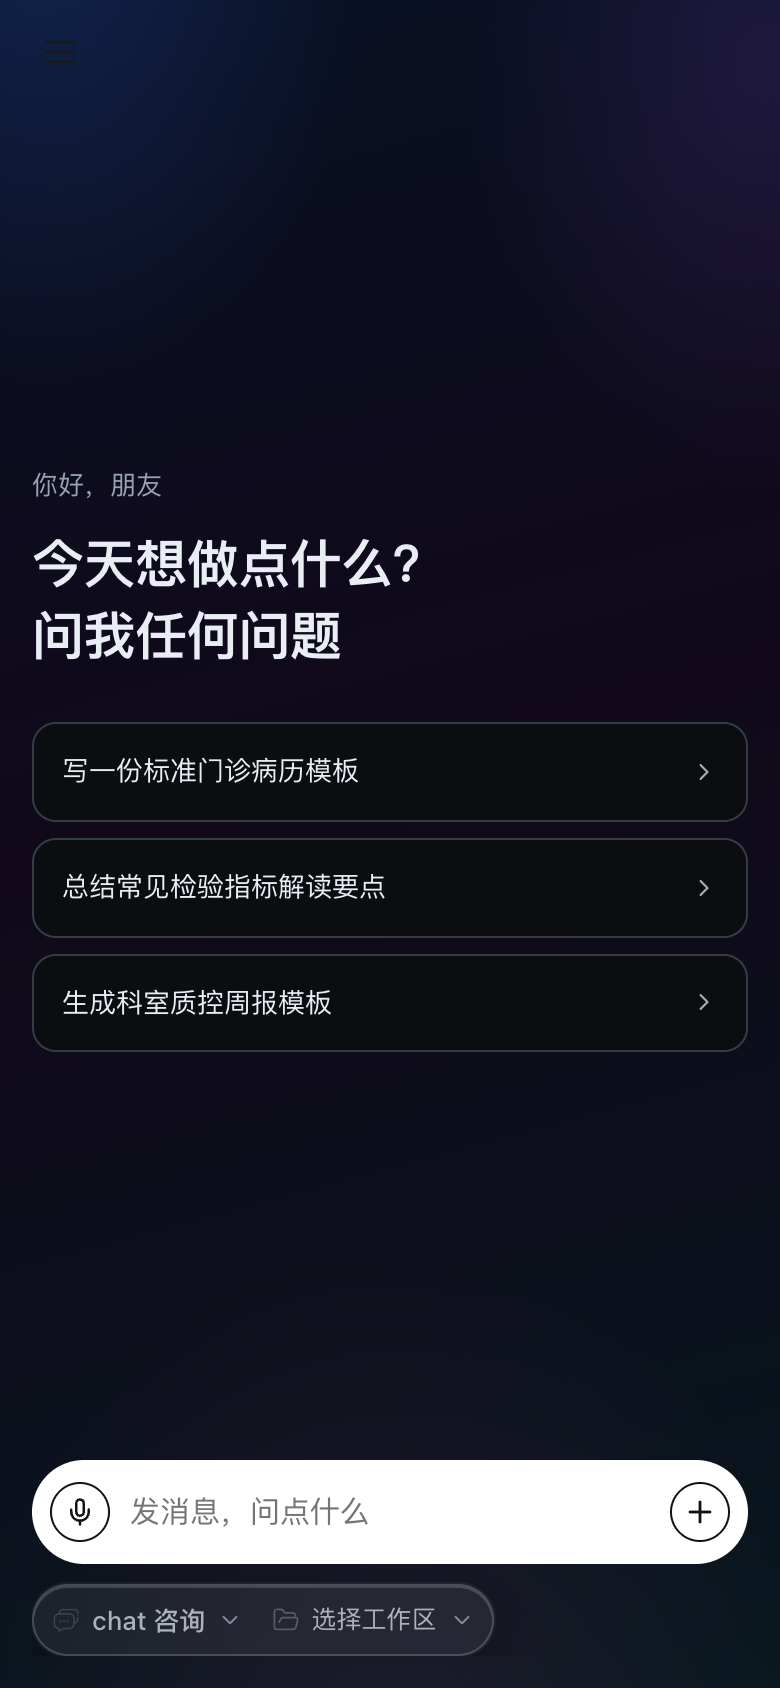
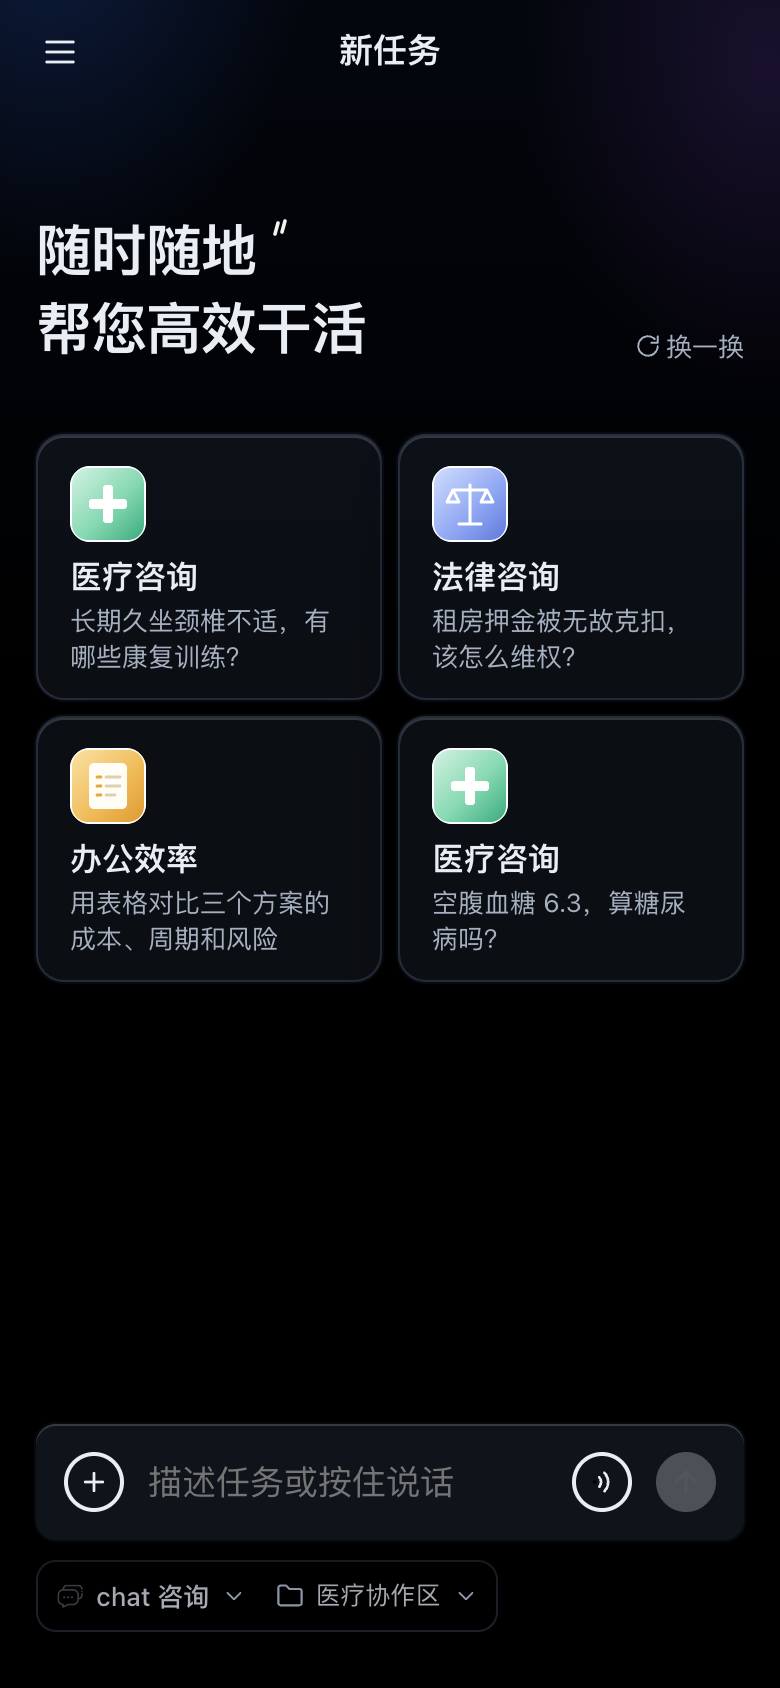
修改 readme

diff --git a/frontend-app/src/pages/home/index.tsx b/frontend-app/src/pages/home/index.tsx
@@ -232,9 +232,11 @@ export default function Home() {
         <View className='nt-scroll'>
           <View className='nt-hero'>
           <View className='nt-hero-title'>
-            <Text className='nt-hero-line'>搭子帮你</Text>
-            <Text className='nt-hero-line'>开启今天的工作</Text>
-            <Image className='nt-quote' src={QUOTE_MARK} mode='aspectFit' />
+            <View className='nt-hero-line nt-hero-first'>
+              <Text>随时随地</Text>
+              <Image className='nt-quote' src={QUOTE_MARK} mode='aspectFit' />
+            </View>
+            <Text className='nt-hero-line'>帮您高效干活</Text>
           </View>
           <View
             className='nt-shuffle'

diff --git a/frontend-app/src/styles/global.scss b/frontend-app/src/styles/global.scss
@@ -5296,12 +5296,16 @@ body,
 .nt-hero-line {
   display: block;
 }
+/* 首行与装饰引号同行，引号跟随文字宽度，不写死偏移 */
+.nt-hero-first {
+  display: flex;
+  align-items: flex-start;
+}
 .nt-quote {
-  position: absolute;
-  left: 92px;
-  top: -3px;
+  flex: 0 0 auto;
   width: 12px;
   height: 12px;
+  margin: 2px 0 0 6px;
 }
 .nt-shuffle {
   position: absolute;
